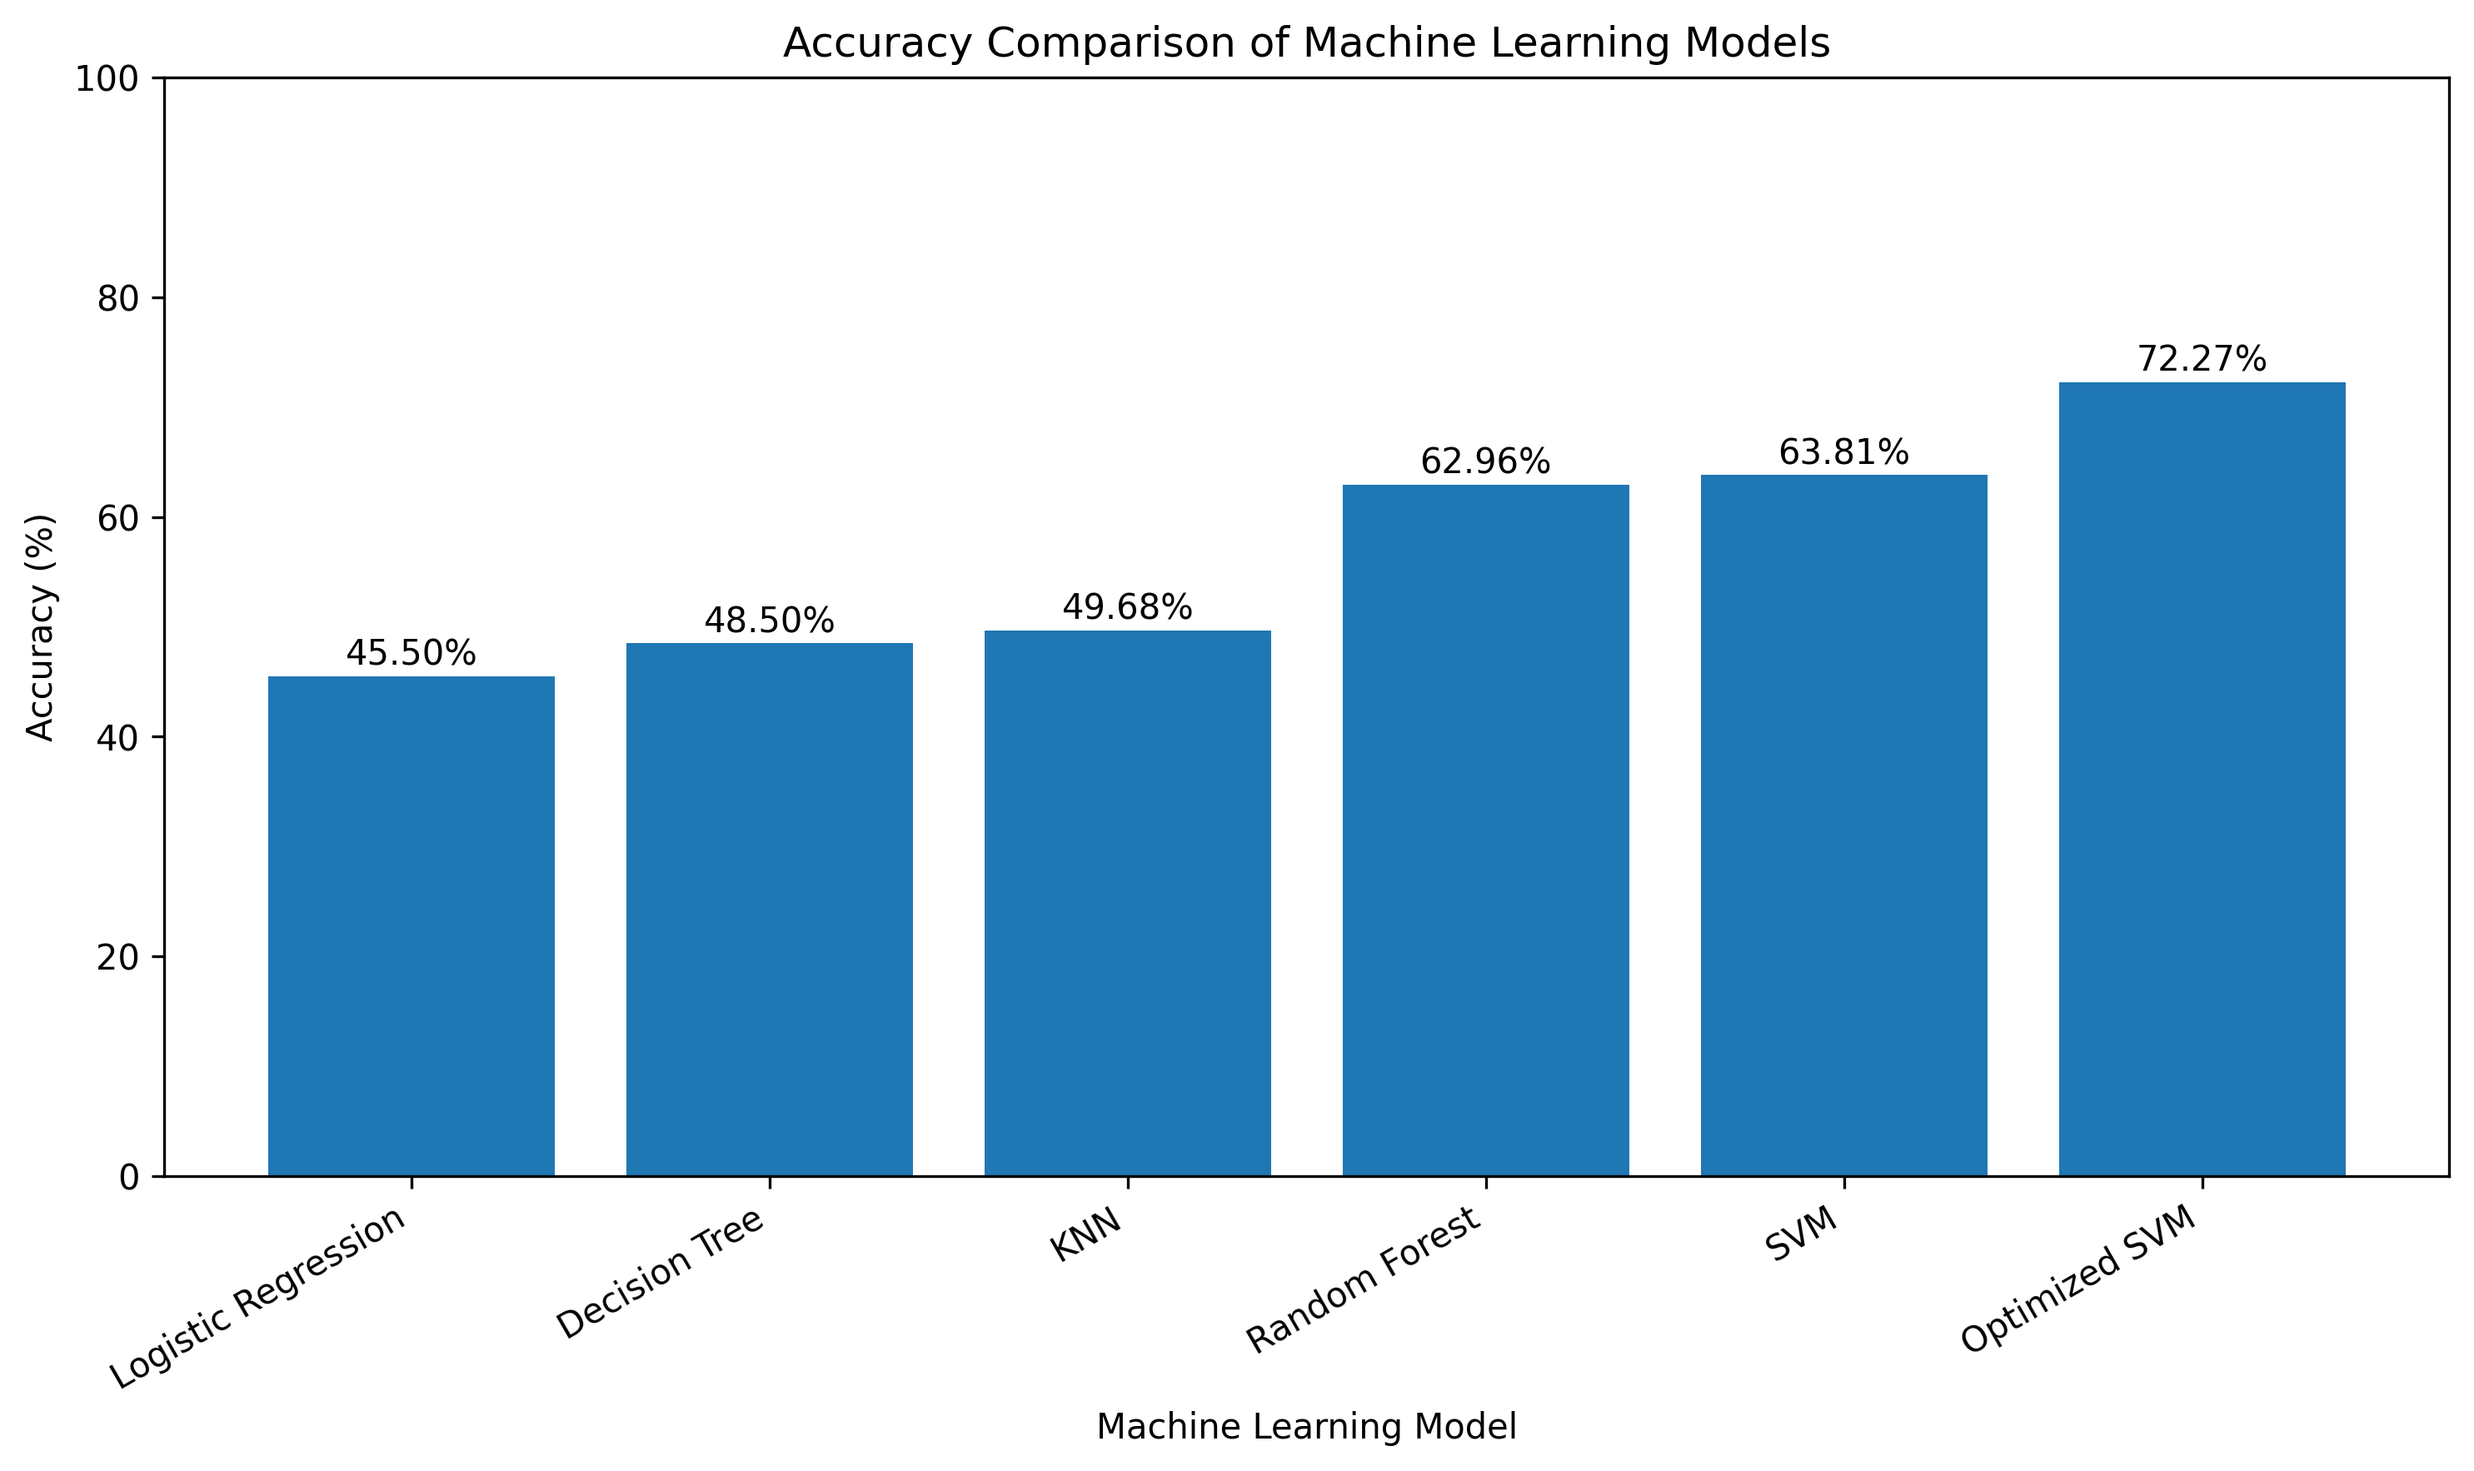
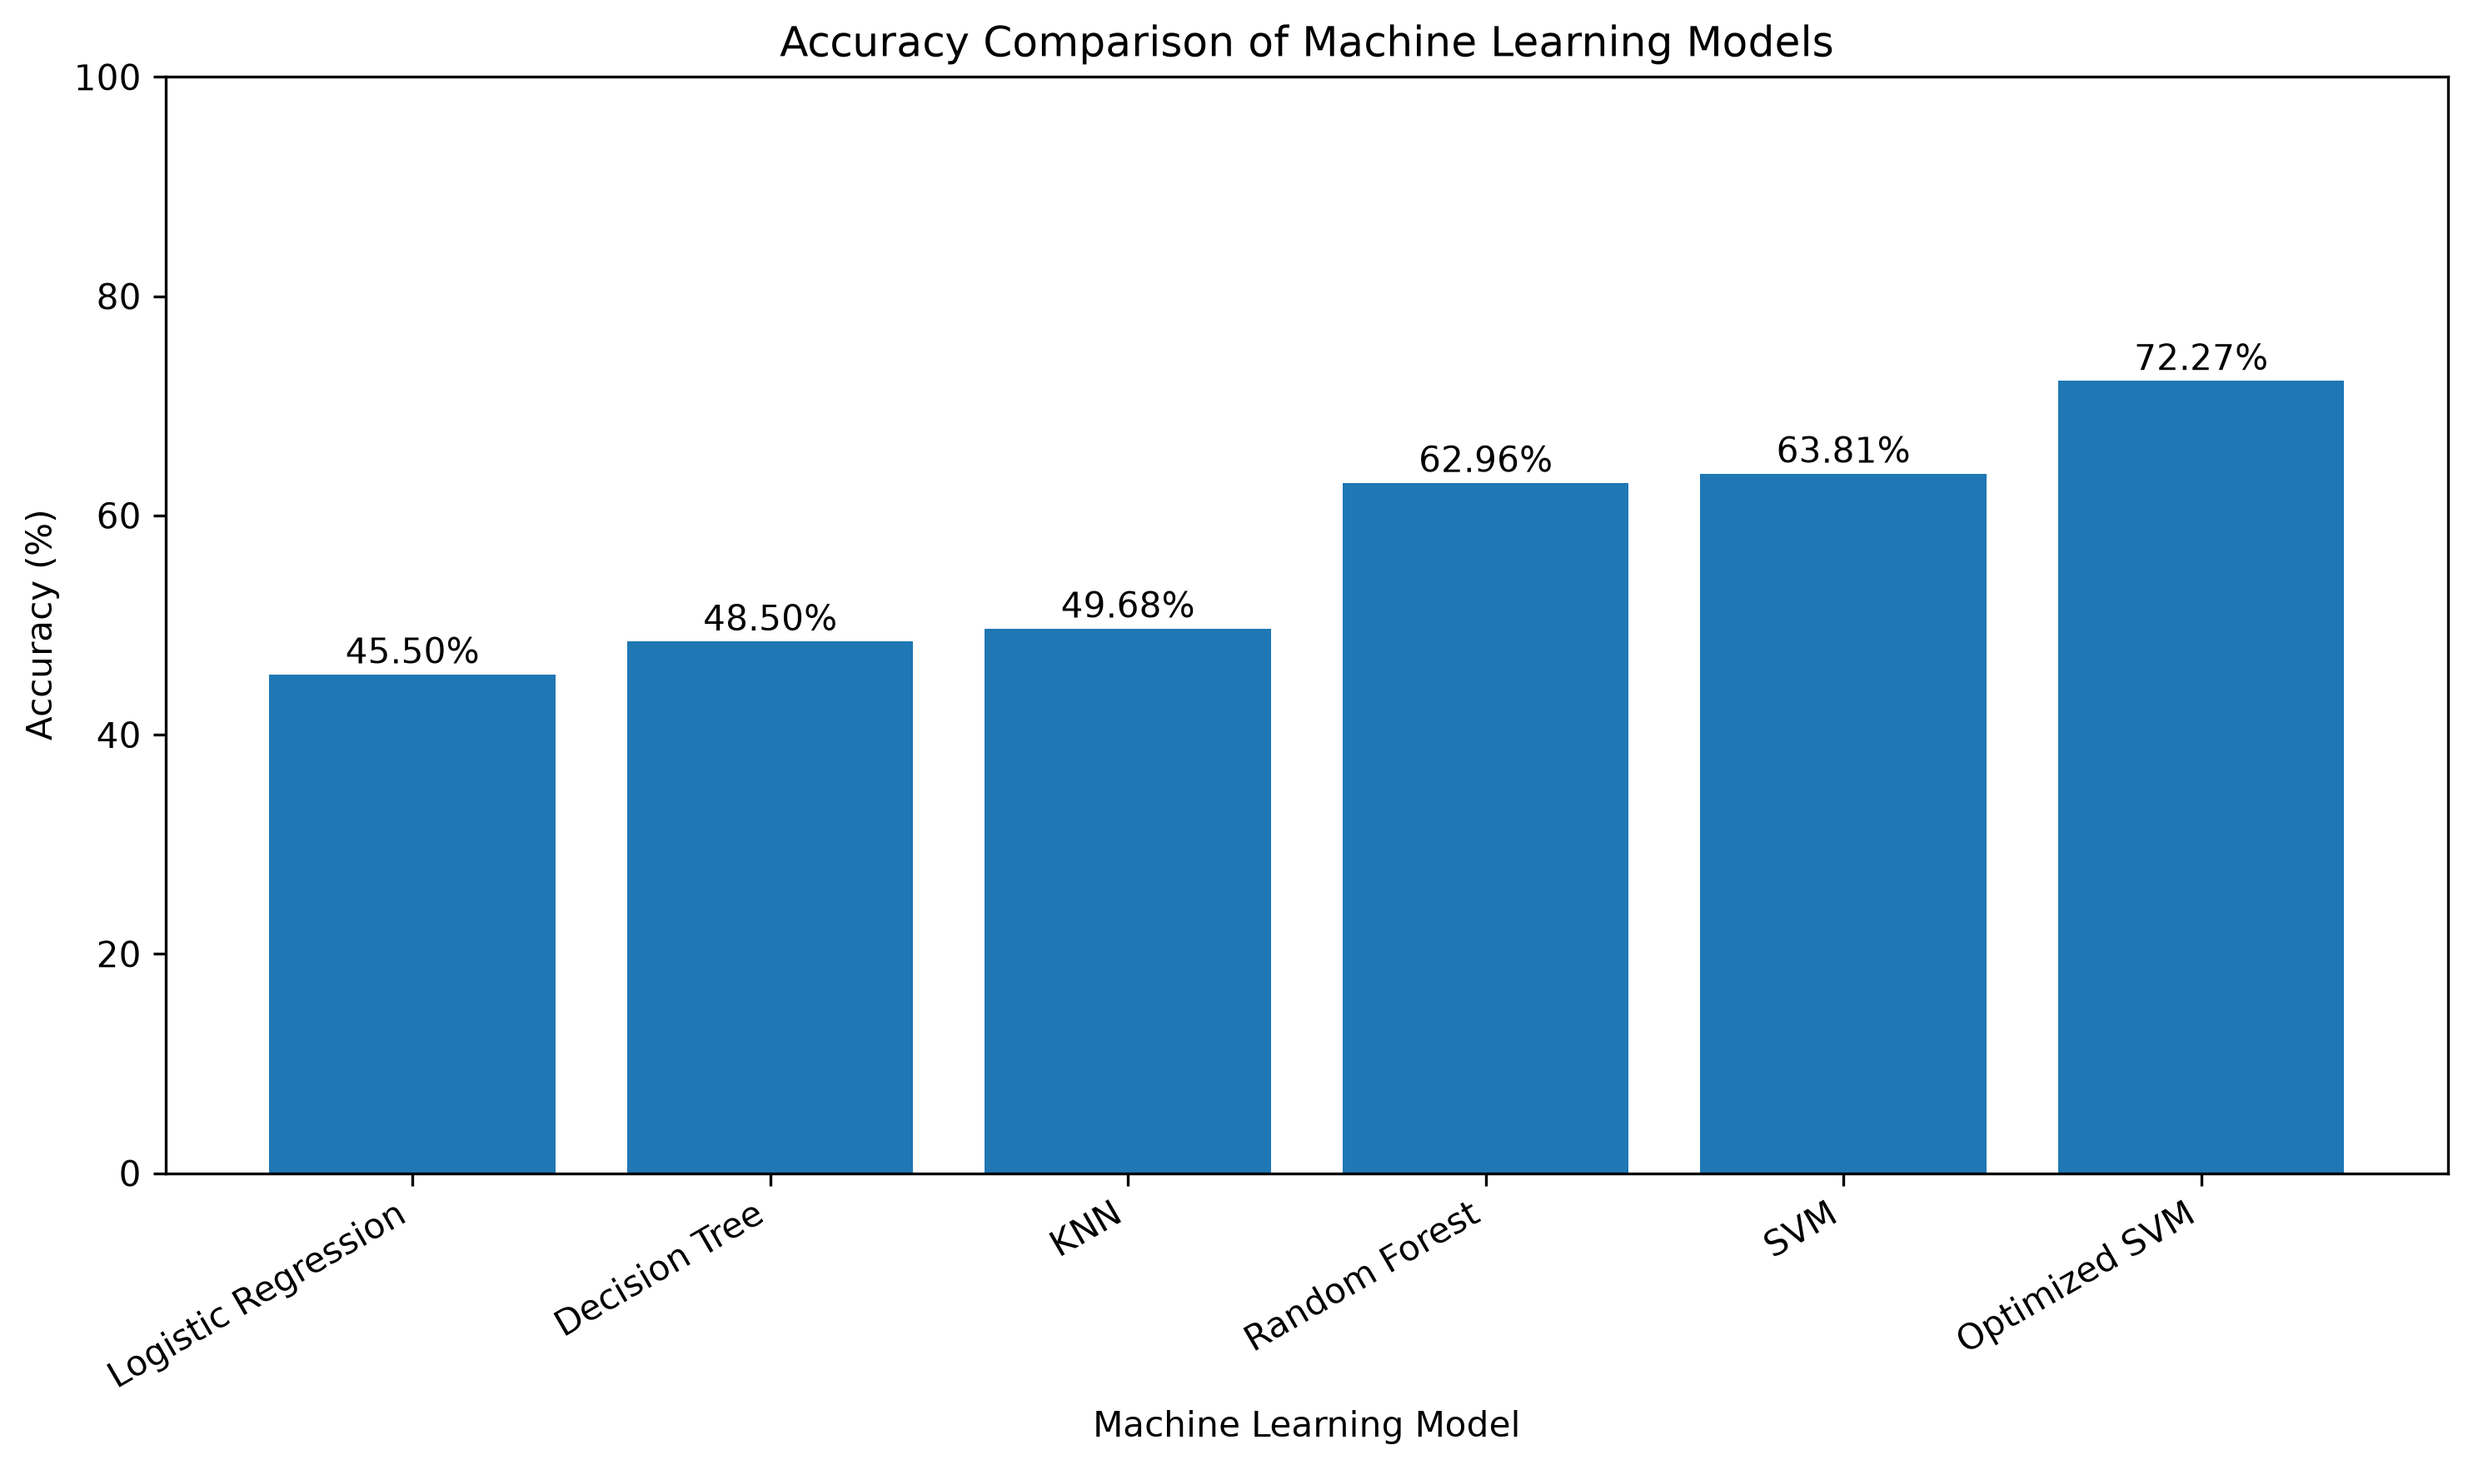
feat: add Gradio/Streamlit web apps, refactor cross-platform paths, and add 1-click startup script

diff --git a/gui.py b/gui.py
@@ -1,0 +1,92 @@
+import os
+import cv2
+import joblib
+import numpy as np
+import pandas as pd
+import gradio as gr
+
+import improved_feature_extraction as feature_extractor
+
+BASE_DIR = os.path.dirname(os.path.abspath(__file__))
+MODEL_FILE = os.path.join(BASE_DIR, "results", "optimized_svm_model.joblib")
+TRAIN_FEATURE_FILE = os.path.join(BASE_DIR, "improved_train_features.csv")
+
+CLASS_DESCRIPTIONS = {
+    "Normal": "Healthy skin with balanced tone, smooth texture, and uniform pigmentation.",
+    "Acne": "Inflammatory condition involving sebaceous glands and hair follicles (papules, pustules, comedones).",
+    "Wrinkles": "Surface creases and fine lines associated with aging or loss of skin elasticity.",
+    "Eczema": "Atopic dermatitis causing dry, itchy, inflamed, and reddened skin patches.",
+    "Rosacea": "Chronic facial redness, visible capillaries, and small inflammatory bumps.",
+    "Dark Spots": "Hyperpigmentation patches from localized excess melanin, sun spots, or post-inflammatory marks."
+}
+
+# Load model and columns
+if os.path.exists(MODEL_FILE):
+    model = joblib.load(MODEL_FILE)
+else:
+    model = None
+
+if os.path.exists(TRAIN_FEATURE_FILE):
+    train_df = pd.read_csv(TRAIN_FEATURE_FILE, nrows=1)
+    feature_cols = [c for c in train_df.columns if c not in ["image_name", "label"]]
+else:
+    feature_cols = []
+
+def classify_skin_image(image):
+    if image is None:
+        return "Please upload an image.", {}
+    
+    if model is None or not feature_cols:
+        return "Error: Model or feature dataset missing.", {}
+    
+    try:
+        # Convert RGB image (from Gradio) to BGR for OpenCV feature extraction
+        bgr_image = cv2.cvtColor(image, cv2.COLOR_RGB2BGR)
+        
+        # Extract 98 features
+        raw_features = feature_extractor.extract_features(bgr_image)
+        if raw_features is None:
+            return "Error extracting features from image.", {}
+        
+        feat_dict = {col: raw_features.get(col, 0.0) for col in feature_cols}
+        feat_df = pd.DataFrame([feat_dict])
+        
+        # Run model inference
+        prediction = model.predict(feat_df)[0]
+        classes = model.classes_
+        
+        if hasattr(model, "predict_proba"):
+            probabilities = model.predict_proba(feat_df)[0]
+        elif hasattr(model, "decision_function"):
+            scores = model.decision_function(feat_df)[0]
+            exp_scores = np.exp(scores - np.max(scores))
+            probabilities = exp_scores / np.sum(exp_scores)
+        else:
+            probabilities = np.ones(len(classes)) / len(classes)
+            
+        confidences = {str(classes[i]): float(probabilities[i]) for i in range(len(classes))}
+        top_prob = confidences.get(prediction, 0.0) * 100
+        
+        summary = f"### Top Prediction: {prediction}\n"
+        summary += f"**Confidence Level**: {top_prob:.1f}%\n\n"
+        summary += f"**Clinical Overview**: {CLASS_DESCRIPTIONS.get(prediction, '')}\n\n"
+        summary += "---\n⚠ **Medical Disclaimer**: Created for academic coursework & technical feature analysis only."
+        
+        return summary, confidences
+    except Exception as e:
+        return f"Processing Error: {str(e)}", {}
+
+demo = gr.Interface(
+    fn=classify_skin_image,
+    inputs=gr.Image(type="numpy", label="Upload Skin Photo"),
+    outputs=[
+        gr.Markdown(label="AI Diagnosis Summary"),
+        gr.Label(num_top_classes=6, label="Class Probabilities")
+    ],
+    title="🩺 Skin Condition Classification System",
+    description="Upload a skin image to predict conditions across 6 classes (Acne, Dark Spots, Eczema, Normal, Rosacea, Wrinkles) using 98 extracted features & an Optimized RBF SVM model.",
+    flagging_mode="never"
+)
+
+if __name__ == "__main__":
+    demo.launch(server_name="127.0.0.1", server_port=7860, share=False)
